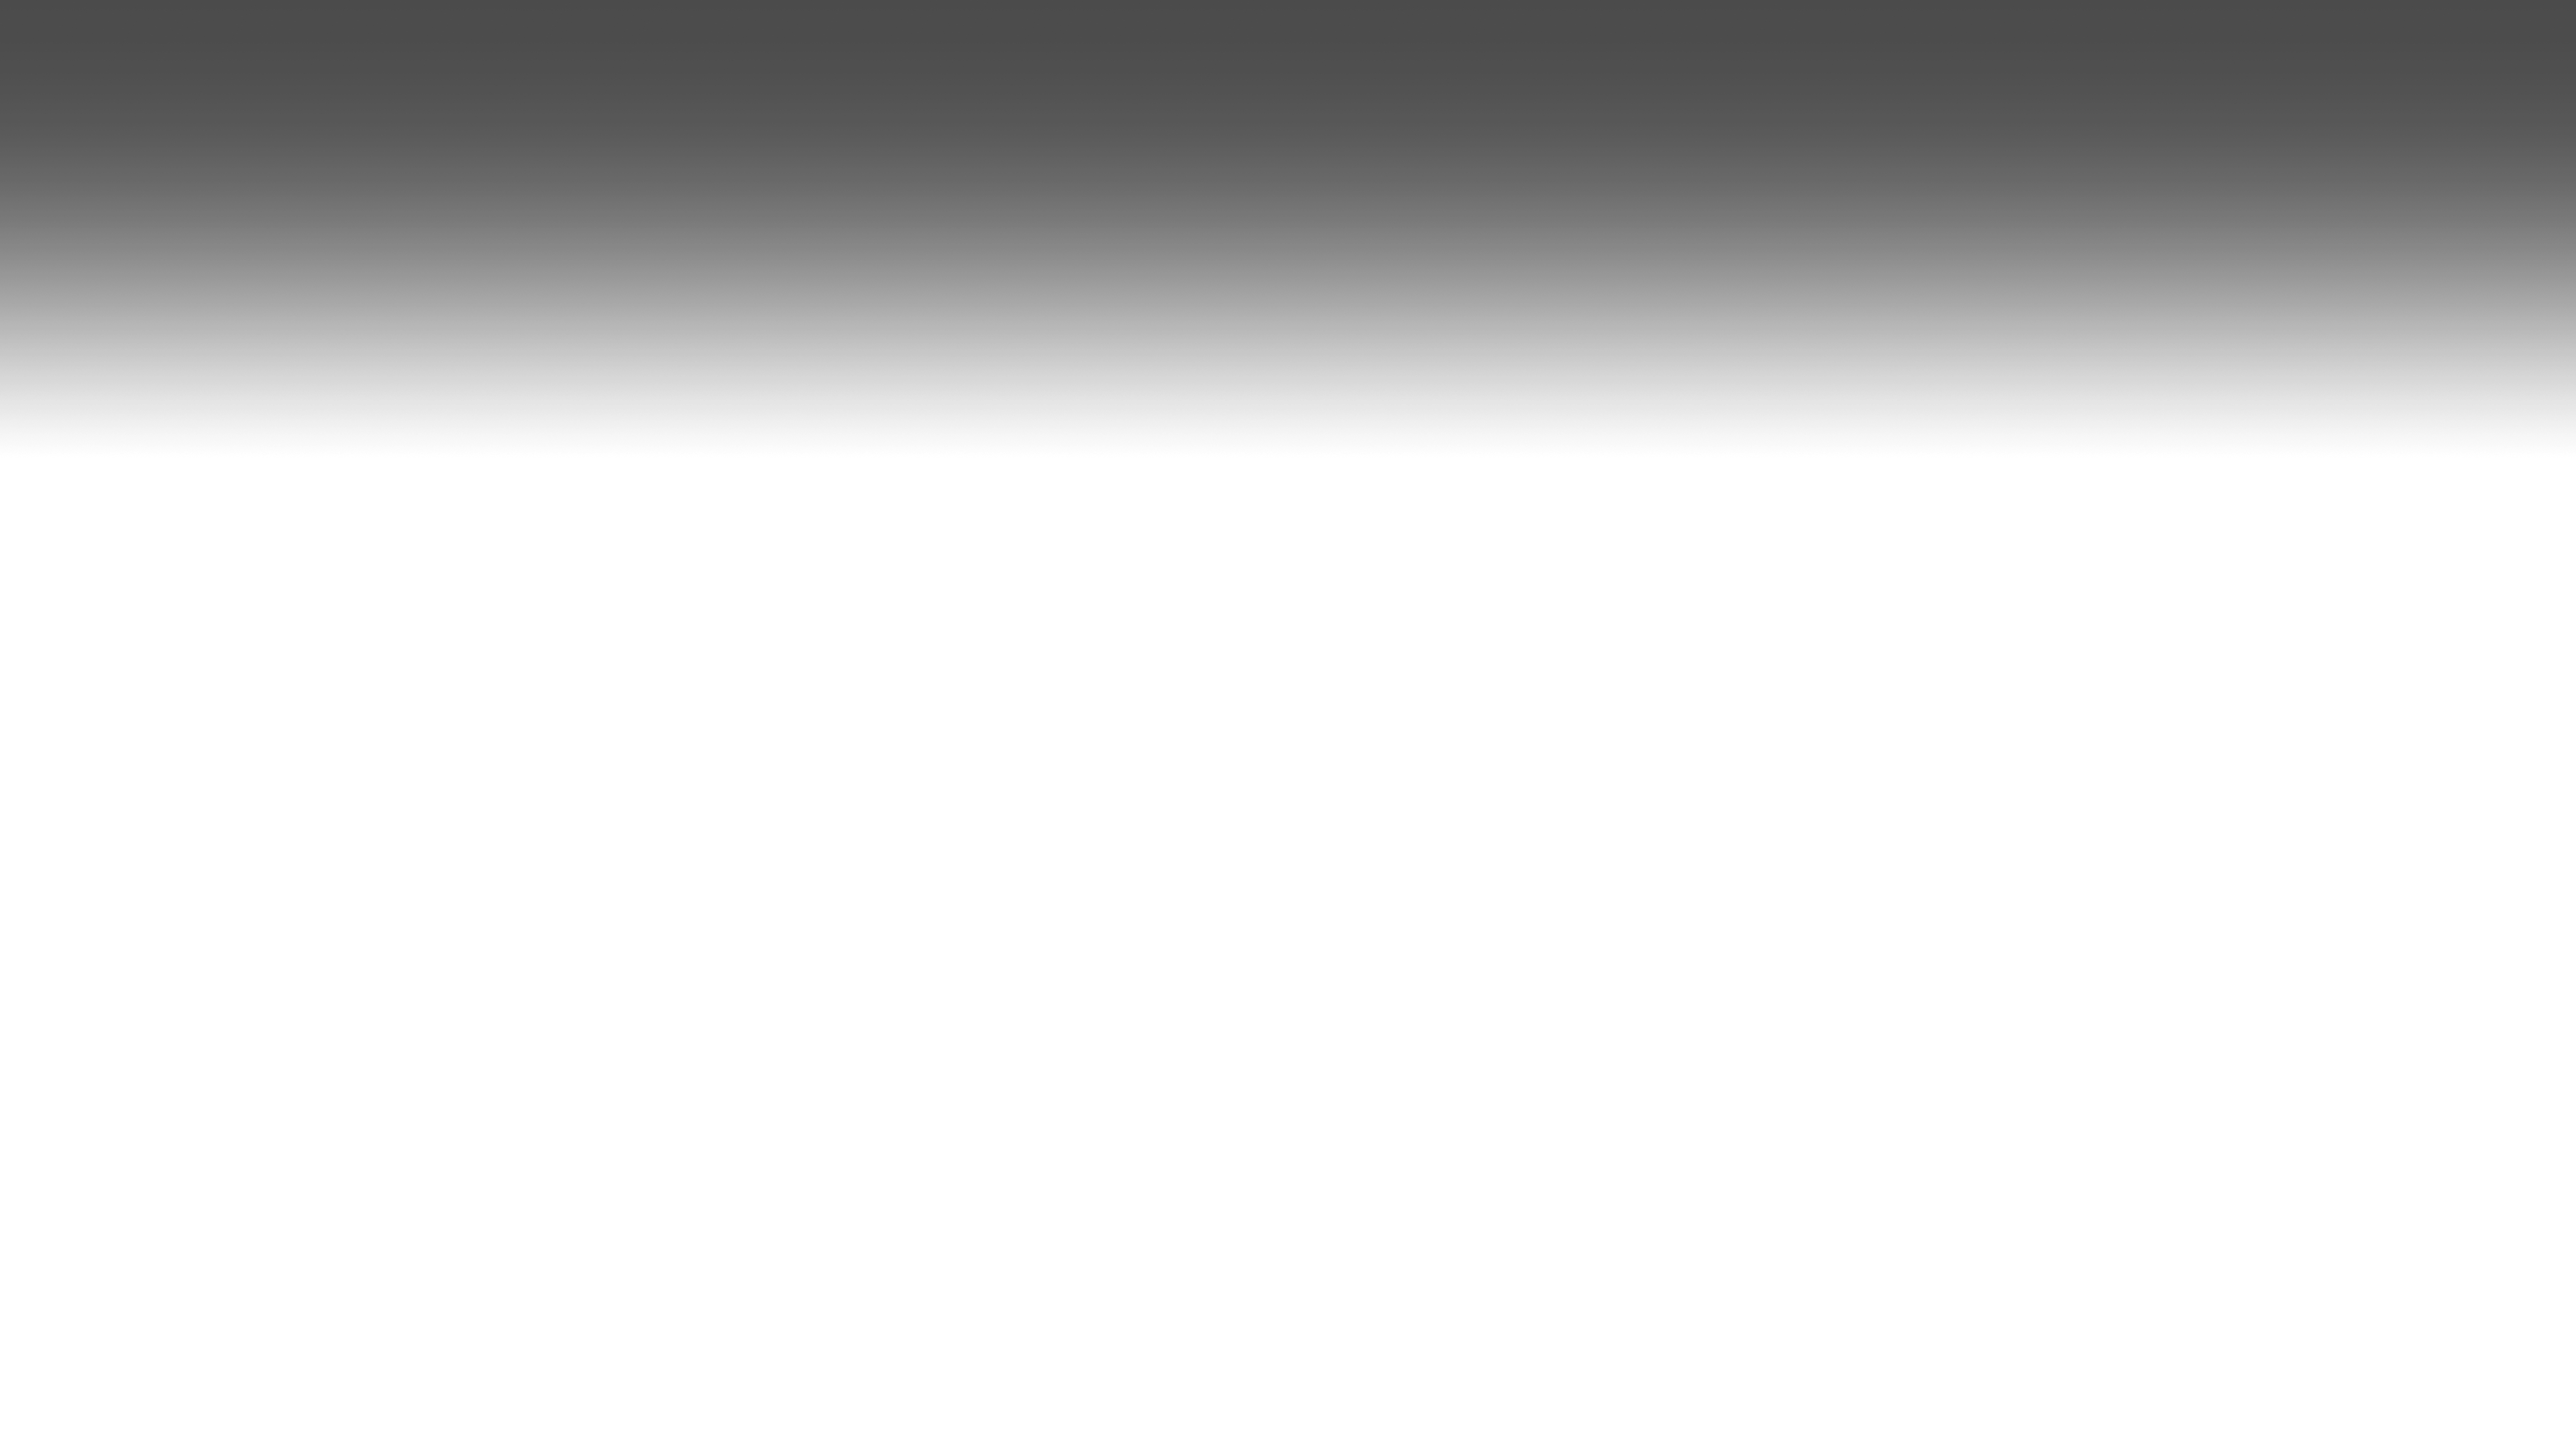
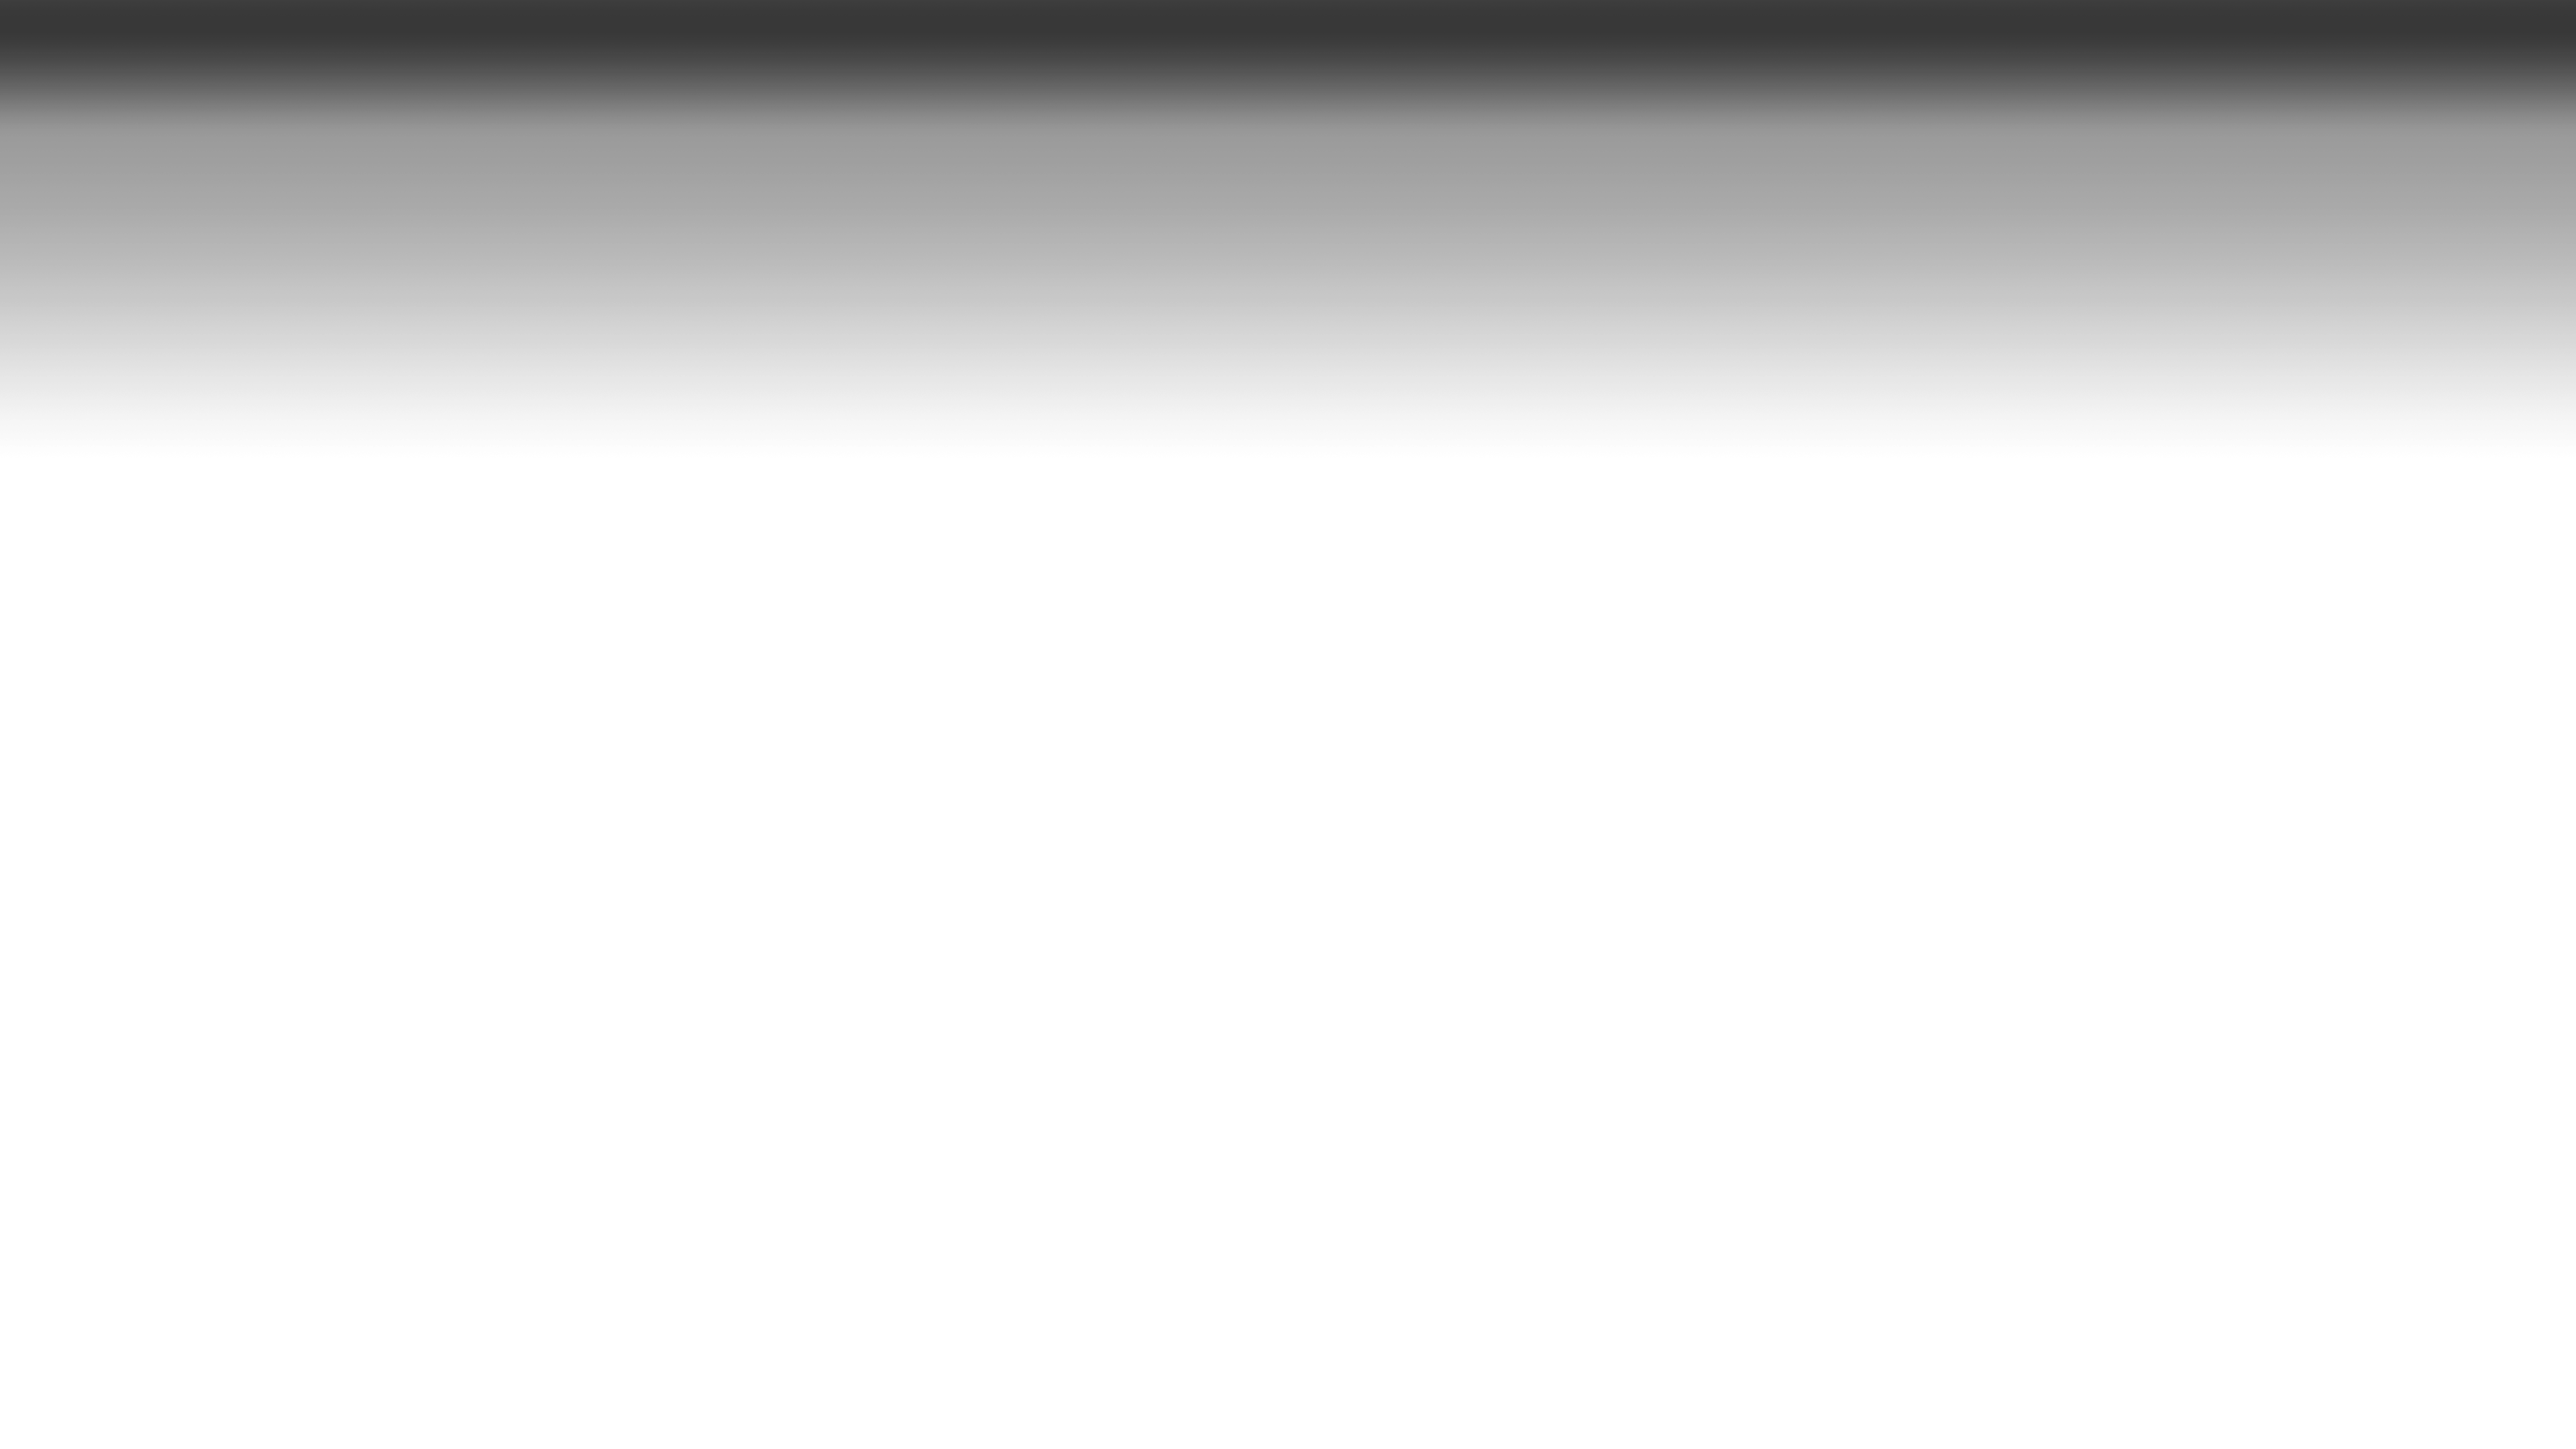
Reworked some UI
Changed background mask to be more dense on a smaller zone
Fixed backGround view being wrongly initialized with mask
Added little shadow under logo, making it more visible
Fixed an issue with "enable gaming power mode" not enablig/disable the
powermode combobox
Fixed some time formatting issues

Changed region(s): [[0.0, 0.062, 1.0, 0.2481]]

diff --git a/src/data/game/entry/GameEntry.java b/src/data/game/entry/GameEntry.java
@@ -29,7 +29,9 @@ public class GameEntry {
     public final static int TIME_FORMAT_FULL_HMS = 0; // 0h12m0s, 0h5m13s
     public final static int TIME_FORMAT_FULL_DOUBLEDOTS = 1; //00:12:00, 00:05:13
     public final static int TIME_FORMAT_HALF_FULL_HMS = 2; // 12m0s, 5m13s
-    public final static int TIME_FORMAT_SHORT_HMS = 3; // 12m, 5m
+    public final static int TIME_FORMAT_ROUNDED_HMS = 3; // 12m, 5m
+    public static final int TIME_FORMAT_HMS_CASUAL = 4 ; //1h05, 20mn, l0s
+
 
     private boolean savedLocaly = false;
 
@@ -46,6 +48,8 @@ public class GameEntry {
     private UUID uuid;
     private boolean alreadyStartedInGameRoom = false;
     private String[] cmd = new String[4];
+    private Date addedDate;
+    private Date lastPlayedDate;
 
     private File[] imagesPaths = new File[IMAGES_NUMBER];
     private boolean[] imageNeedsRefresh = new boolean[IMAGES_NUMBER];
@@ -373,30 +377,47 @@ public class GameEntry {
                 break;
             case TIME_FORMAT_FULL_HMS:
                 result += hours + "h";
-                result += minutes + "m";
+                result += minutes + "mn";
                 result += seconds + "s";
                 break;
             case TIME_FORMAT_HALF_FULL_HMS:
                 if (hours > 0) {
                     result += hours + "h";
-                    result += minutes + "m";
+                    result += minutes + "mn";
                     result += seconds + "s";
                 } else {
                     if (minutes > 0) {
-                        result += minutes + "m";
+                        result += minutes + "mn";
                         result += seconds + "s";
                     } else {
                         result += seconds + "s";
                     }
                 }
                 break;
-            case TIME_FORMAT_SHORT_HMS:
+            case TIME_FORMAT_ROUNDED_HMS:
                 if (hours > 0) {
                     result = hours + "h";
                 } else if (minutes > 0) {
-                    result = minutes + "m";
+                    result = minutes + "mn";
                 } else {
                     result = seconds + "s";
+                }
+                break;
+            case TIME_FORMAT_HMS_CASUAL:
+                if (hours > 0) {
+                    result += hours + "h";
+                    if(minutes > 0){
+                        if(minutes <10){
+                            result += '0';
+                        }
+                        result+= minutes;
+                    }
+                } else {
+                    if (minutes > 0) {
+                        result += minutes + "mn";
+                    } else {
+                        result += seconds + "s";
+                    }
                 }
                 break;
             default:

diff --git a/src/UI/scene/SettingsScene.java b/src/UI/scene/SettingsScene.java
@@ -97,7 +97,15 @@ public class SettingsScene extends BaseScene {
                 }
             }
         });
-        addPropertyLine(PredefinedSetting.ENABLE_GAMING_POWER_MODE);
+        addPropertyLine(PredefinedSetting.ENABLE_GAMING_POWER_MODE,new ChangeListener<Boolean>(){
+            @Override
+            public void changed(ObservableValue<? extends Boolean> observable, Boolean oldValue, Boolean newValue) {
+                Node node = searchNode(PredefinedSetting.GAMING_POWER_MODE.getKey());
+                if(node!=null){
+                    node.setDisable(!newValue);
+                }
+            }
+        });
         addPropertyLine(PredefinedSetting.GAMING_POWER_MODE);
         addPropertyLine(PredefinedSetting.GAMES_FOLDER);
 
@@ -370,7 +378,6 @@ public class SettingsScene extends BaseScene {
             /**************** PATH **************/
             File p = GENERAL_SETTINGS.getFile(setting);
             PathTextField gamesFolderField = new PathTextField(p != null ? p.toString() : "", this,PathTextField.FILE_CHOOSER_FOLDER,RESSOURCE_BUNDLE.getString("select_a_folder"));
-            gamesFolderField.setId("games_folder");
             gamesFolderField.getTextField().textProperty().addListener(new ChangeListener<String>() {
                 @Override
                 public void changed(ObservableValue<? extends String> observable, String oldValue, String newValue) {
@@ -383,9 +390,12 @@ public class SettingsScene extends BaseScene {
             });
             node2 = gamesFolderField;
         }
+        if(node2!=null){
+            node2.setId(setting.getKey());
+        }
         contentPane.getChildren().add(createLine(label,node2));
     }
-    private Node createLine(Node nodeLeft, Node nodeRight){
+    private HBox createLine(Node nodeLeft, Node nodeRight){
         HBox box = new HBox();
 
         final HBox leftSection = new HBox( nodeLeft);
@@ -410,7 +420,26 @@ public class SettingsScene extends BaseScene {
             fadeTransitionTo(previousScene,getParentStage(),true);
         },RESSOURCE_BUNDLE.getString("Settings")));
     }
+    private Node searchNode(String id){
+        return searchNodeInPane(id,contentPane);
+    }
 
+    private Node searchNodeInPane(String id, Pane pane){
+        for(Node n : pane.getChildren()){
+            if(n instanceof Pane){
+                Node result = searchNodeInPane(id, (Pane) n);
+                if(result!=null){
+                    return result;
+                }
+            }else{
+                if(n!=null && n.getId()!=null && n.getId().equals(id)){
+                    return n;
+                }
+            }
+
+        }
+        return null;
+    }
     @Override
     public Pane getWrappingPane() {
         return wrappingPane;

diff --git a/src/ui/control/button/gamebutton/GameButton.java b/src/ui/control/button/gamebutton/GameButton.java
@@ -96,7 +96,7 @@ public abstract class GameButton extends BorderPane {
 
     public void reloadWith(GameEntry entry) {
         this.entry = entry;
-        playTimeLabel.setText(entry.getPlayTimeFormatted(GameEntry.TIME_FORMAT_SHORT_HMS));
+        playTimeLabel.setText(entry.getPlayTimeFormatted(GameEntry.TIME_FORMAT_ROUNDED_HMS));
         ratingLabel.setText(Integer.toString(entry.getAggregated_rating()));
         SimpleDateFormat buttonDateFormat = new SimpleDateFormat("MM.yyyy");
         releaseDateLabel.setText(entry.getReleaseDate()!=null ? buttonDateFormat.format(entry.getReleaseDate()) : "-");
@@ -218,7 +218,7 @@ public abstract class GameButton extends BorderPane {
         playButton = new ImageButton(DEFAULT_PLAY_IMAGE);
         infoButton = new ImageButton(DEFAULT_INFO_IMAGE);
 
-        playTimeLabel = new Label(entry.getPlayTimeFormatted(GameEntry.TIME_FORMAT_SHORT_HMS));
+        playTimeLabel = new Label(entry.getPlayTimeFormatted(GameEntry.TIME_FORMAT_ROUNDED_HMS));
         playTimeLabel.setEffect(ds);
         playTimeLabel.setOpacity(0);
         playTimeLabel.setFocusTraversable(false);
@@ -438,7 +438,7 @@ public abstract class GameButton extends BorderPane {
             }
         });
         infoButton.addMouseEnteredHandler(e -> {
-            playTimeLabel.setText(entry.getPlayTimeFormatted(GameEntry.TIME_FORMAT_SHORT_HMS));
+            playTimeLabel.setText(entry.getPlayTimeFormatted(GameEntry.TIME_FORMAT_ROUNDED_HMS));
             if (MAIN_SCENE.getInputMode() == MainScene.INPUT_MODE_MOUSE) {
                 requestFocus();
                 playTimeLabel.setOpacity(keepTimeLabelVisible? 1 : 0);

diff --git a/src/system/application/GameStarter.java b/src/system/application/GameStarter.java
@@ -14,7 +14,6 @@ import java.awt.*;
 import java.io.*;
 import java.net.URI;
 import java.net.URISyntaxException;
-import java.util.Arrays;
 
 import static ui.Main.GENERAL_SETTINGS;
 import static ui.Main.MAIN_SCENE;
@@ -113,7 +112,7 @@ public class GameStarter {
                     entry.setSavedLocaly(false);
                     if(!GENERAL_SETTINGS.getBoolean(PredefinedSetting.NO_NOTIFICATIONS)) {
                         Main.TRAY_ICON.displayMessage("GameRoom"
-                                , GameEntry.getPlayTimeFormatted(Math.round(newValue/1000.0),GameEntry.TIME_FORMAT_SHORT_HMS) + " "
+                                , GameEntry.getPlayTimeFormatted(Math.round(newValue/1000.0),GameEntry.TIME_FORMAT_HMS_CASUAL) + " "
                                         + Main.RESSOURCE_BUNDLE.getString("tray_icon_time_recorded") + " "
                                         + entry.getName(), TrayIcon.MessageType.INFO);
                     }

diff --git a/src/system/application/Monitor.java b/src/system/application/Monitor.java
@@ -106,7 +106,7 @@ public class Monitor {
                     alert.initModality(Modality.WINDOW_MODAL);
                     alert.setContentText(gameStarter.getGameEntry().getName() + " "
                             + Main.RESSOURCE_BUNDLE.getString("monitor_wait_dialog_1") + " "
-                            + GameEntry.getPlayTimeFormatted(Math.round(result/1000.0),GameEntry.TIME_FORMAT_SHORT_HMS)
+                            + GameEntry.getPlayTimeFormatted(Math.round(result/1000.0),GameEntry.TIME_FORMAT_ROUNDED_HMS)
                             + Main.RESSOURCE_BUNDLE.getString("monitor_wait_dialog_2"));
 
                     Optional<ButtonType> dialogResult = alert.showAndWait();

diff --git a/src/UI/scene/BaseScene.java b/src/UI/scene/BaseScene.java
@@ -59,8 +59,8 @@ public abstract class BaseScene extends Scene {
                     ,false
                     ,true);
         }
-        backgroundView = new ImageView(backgroundMaskImage);
-        maskView = new ImageView();
+        backgroundView = new ImageView();
+        maskView = new ImageView(backgroundMaskImage);
         rootStackPane.getChildren().add(backgroundView);
         rootStackPane.getChildren().add(maskView);
         initAndAddWrappingPaneToRoot();
